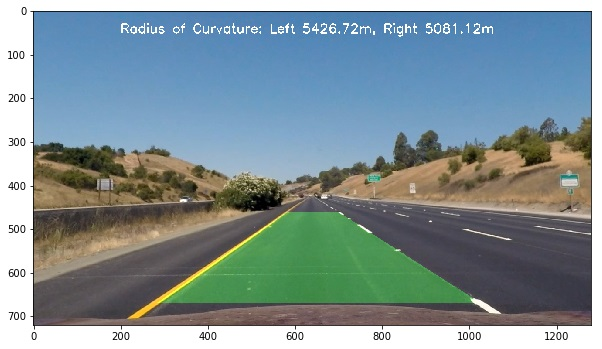
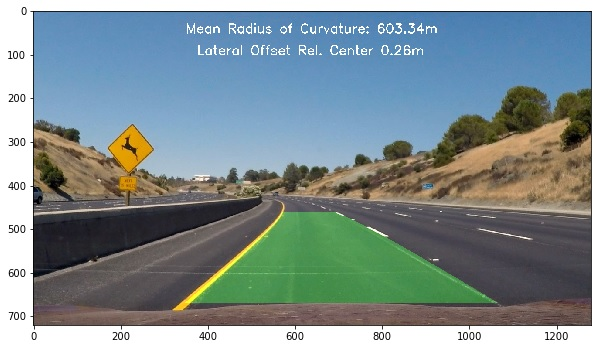
Lateral offset and curvature correctly reported Next Steps: Testing on video

diff --git a/detect_lines.py b/detect_lines.py
@@ -369,7 +369,7 @@ def find_next_lanes(img, left_fit, right_fit, visualize=False):
     
     return left_fit, right_fit, ploty
 
-def calc_curvature(left_fit, right_fit, ploty):
+def calc_curvature_offset(left_fit, right_fit, ploty):
     
     # Define y-value where we want radius of curvature
     # I'll choose the maximum y-value, corresponding to the bottom of the image
@@ -388,16 +388,29 @@ def calc_curvature(left_fit, right_fit, ploty):
     right_fitx = right_fit[0]*ploty**2 + right_fit[1]*ploty + right_fit[2]
     left_fit_cr = np.polyfit(ploty*ym_per_pix, left_fitx*xm_per_pix, 2)
     right_fit_cr = np.polyfit(ploty*ym_per_pix, right_fitx*xm_per_pix, 2)
+    
+    #print("Min: "+str(np.min(right_fitx)*xm_per_pix))
+    #print("Max: "+str(np.max(right_fitx)*xm_per_pix))
     # Calculate the new radii of curvature
     left_curverad_m = ((1 + (2*left_fit_cr[0]*y_eval*ym_per_pix + left_fit_cr[1])**2)**1.5) / np.absolute(2*left_fit_cr[0])
     right_curverad_m = ((1 + (2*right_fit_cr[0]*y_eval*ym_per_pix + right_fit_cr[1])**2)**1.5) / np.absolute(2*right_fit_cr[0])
     # Now our radius of curvature is in meters
-    #print(left_curverad_m, 'm', right_curverad_m, 'm')
-    return left_curverad_m, right_curverad_m
+
+    curve_mean = ((left_curverad_m + right_curverad_m) / 2)
+        
+    img_width = 1280
+    center_img_m = (img_width/2 + 0.5) * xm_per_pix
+    
+    left_lane_m = np.max(left_fitx)* xm_per_pix
+    right_lane_m = np.max(right_fitx)*xm_per_pix
+    lane_midpt   = (left_lane_m + right_lane_m) / 2
+    veh_pos_rel_center = lane_midpt - center_img_m
+
+    return curve_mean, veh_pos_rel_center
 
 
 
-def draw_result_raw_image(img, binary_img, M, left_fit, right_fit, ploty, left_curverad_m, right_curverad_m):
+def draw_result_raw_image(img, binary_img, M, left_fit, right_fit, ploty, mean_curve_m, lat_off_rel_ctr, visualize=False):
     
     Minv = np.linalg.inv(M)
     left_fitx = left_fit[0]*ploty**2 + left_fit[1]*ploty + left_fit[2]
@@ -421,20 +434,16 @@ def draw_result_raw_image(img, binary_img, M, left_fit, right_fit, ploty, left_c
     result = cv2.addWeighted(img, 1, newwarp, 0.3, 0)
     # Write some Text
     font = cv2.FONT_HERSHEY_SIMPLEX
-    cv2.putText(result,'Radius of Curvature: Left {0:.2f}m, Right {1:.2f}m'.format(left_curverad_m, right_curverad_m),(200,50), font, 1,(255,255,255),2)
-    plt.figure(figsize=(10, 10))
-    plt.imshow(result)
+    cv2.putText(result,'Mean Radius of Curvature: {0:.2f}m'.format(mean_curve_m),(350,50), font, 1,(255,255,255),2)
+    cv2.putText(result,' Lateral Offset Rel. Center {0:.2f}m'.format(lat_off_rel_ctr),(360,100), font, 1,(255,255,255),2)
     
-
-        
-                
-
-visualize = False
-# Make a list of test images
-images = glob.glob('test_images/straight*.jpg')
-
-for img_count, fname in enumerate(images):
-    img                                 = mpimg.imread(fname)
+    if visualize == True:
+        plt.figure(figsize=(10, 10))
+        plt.imshow(result)
+    
+def pipeline(img):
+    visualize_preproc_steps = False
+    
     undistort_img                       = undistort_image(img, False)
     color_binary                        = extract_hls_features(undistort_img, False)
     thresh_binary                       = get_thresholded_img(undistort_img, False)
@@ -442,16 +451,16 @@ for img_count, fname in enumerate(images):
     combined                            = np.zeros_like(thresh_binary)
     combined[(color_binary == 1) | (thresh_binary == 1)] = 1
     
-    corrected_img, M                 = correct_image(combined, False)
+    corrected_img, M                    = correct_image(combined, False)
     left_fit, right_fit, ploty          = find_initial_lanes(corrected_img, False)
     left_fit, right_fit, ploty          = find_next_lanes(corrected_img, left_fit, right_fit, False)
-    left_curverad_m, right_curverad_m   = calc_curvature(left_fit, right_fit, ploty)
+    mean_curve_m, lat_off_rel_ctr       = calc_curvature_offset(left_fit, right_fit, ploty)
     
-    draw_result_raw_image(undistort_img, corrected_img, 
+    draw_result_raw_image(img, corrected_img, 
                           M, left_fit, right_fit, ploty, 
-                          left_curverad_m, right_curverad_m)
+                          mean_curve_m, lat_off_rel_ctr, True)
     
-    if visualize == True:
+    if visualize_preproc_steps == True:
         rows = 1
         cols = 3
         idx = 1
@@ -470,4 +479,13 @@ for img_count, fname in enumerate(images):
         plt.subplot(rows, cols, idx)
         plt.imshow(corrected_img, cmap='gray')
         plt.title('Resulting Corrected Image')
+    
+    
+# Make a list of test images
+images = glob.glob('test_images/*.jpg')
+
+for img_count, fname in enumerate(images):
+    img = mpimg.imread(fname)
+    pipeline(img)
+    
     
